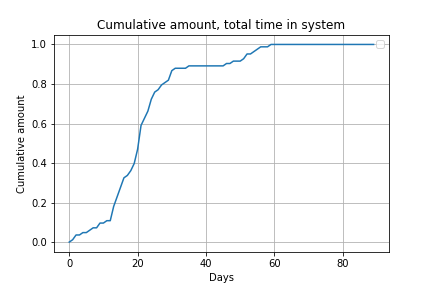
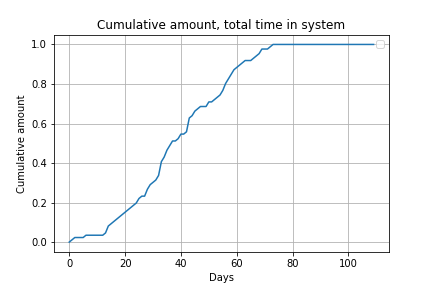
hei

diff --git a/src/simulation.py b/src/simulation.py
@@ -78,7 +78,7 @@ class Simulation:
         for r in resources:
             res_cap = mp.L_rt[r, 0]
             resource_usage_now = resource_usage[r]
-            if resource_usage_now + queue.activity_duration > res_cap:
+            if resource_usage_now + mp.activity_resource_dict[queue.activity][r] > res_cap: # queue.activity_duration
                 return False
         return True
 
@@ -925,7 +925,7 @@ def resource_usage_plot(s, active_days, sim_horizon):
     for d in range(0, active_days):
         for r in range(mp.L_rt.shape[0]):
             arr_available[d] = arr_available[d] + mp.L_rt[r, d % 7] 
-    
+    print("res_usage", res_usage)
     res1 = average_days(arr, len(arr))
     res2 = average_days(arr_available, len(arr_available))
     share_of_resources_used_1 = np.divide(res1, res2)
@@ -988,9 +988,9 @@ def time_limit_violation_plot(s, sim_days, warm_up_period):
     ax1 = plt.gca()
     ax2 = ax1.twinx()
     #g = ax1.plot(days, cum_tot, linestyle='-', label="tot")
-    a = ax1.plot(days, cum1, linestyle='-', label="Phase 1 limit")
-    b = ax1.plot(days, cum2, linestyle='-', label="Phase 2 limit")
-    c = ax1.plot(days, cum3, linestyle='-', label="Phase 3 limit")
+    a = ax1.plot(days, cum1, linestyle='-', label="Phase 1")
+    b = ax1.plot(days, cum2, linestyle='-', label="Phase 2")
+    c = ax1.plot(days, cum3, linestyle='-', label="Phase 3")
     d = ax2.plot(days, s.total_num_in_queue[1:], linestyle='--',label="Number of patients")
     ax1.set_xlabel('Days')
     ax1.set_ylabel("Share of patients violating the time limit")
@@ -1144,12 +1144,12 @@ def main():
     arr = [q0,q1,q2,q3,q4,q5,q6,q7,q8,q9,q10,q11,q12,q13,q14,q15,q16,q17,q18,q19,q20,q21,q22,q23,q24,q25,q26,q27,q28,q29,q30,q31,q32,q33,q34,q35,q36,q37,q38,q39]
 
     #Optimization param
-    weeks = 2
+    weeks = 1
     G = None
     E = None
-    M = 60
-    N = int(np.round(M*3/5))
-    shift = 6
+    M = 80
+    N = 80#int(np.round(M*3/5))
+    shift = 5
 
     #Simulation param
     simulation_horizon = 365
@@ -1157,7 +1157,7 @@ def main():
     no_show_percentage = 0.05
     implementation_weeks = 1
     K_rol_hor = 1000
-    warm_up_period = 0
+    warm_up_period = 0#50
 
 
     number_of_queues = mf.get_total_number_of_queues()
@@ -1167,13 +1167,17 @@ def main():
     scheduled_appointments = mf.from_dict_to_matrix_2(b_variable, (number_of_queues, weeks*7))
     scheduled_appointments = scheduled_appointments[:, :(implementation_weeks * 7)]
     s = Simulation(arr, scheduled_appointments, no_show_percentage)
-
+    sum_1 = np.zeros(16)
     for i in range(simulation_horizon):
         s.next_day()
+        sum_1 += s.calculate_resource_usage_day(i)
+        print(s.calculate_resource_usage_day(i))
         
         if i % (implementation_weeks * 7) == (implementation_weeks * 7 - 1) and i > 0:
             E = s.create_E_matrix()
             G = s.create_G_matrix()
+            print(sum_1)
+            sum_1 = np.zeros(16)
 
             create_capacity_graph(s, i + 1)
             _, b_variable, _ = mm.optimize_model(weeks = weeks, N_input = N, M_input = M, shift = shift, with_rolling_horizon = True, in_iteration = False, weights = None, G = G, E = E, K = K_rol_hor)
@@ -1194,12 +1198,7 @@ def main():
             create_stacked_plot(s)
             if i > 6:
                 create_total_queue_development(s)
-
-
-
-
-
-
+            
 
 
     print("\nSimulation time:", time.time() - start_time)
@@ -1223,6 +1222,3 @@ if __name__ == '__main__':
     print("\n")
     print("******* END  *******")
     print("\n")
-    #array = [0,1,2,3,4,5,6,7,8,9,10,11,12,13,14]
-    #a = average_days(array,15,7)
-    #print(a)

diff --git a/src/model_parameters.py b/src/model_parameters.py
@@ -166,22 +166,22 @@ t1,m,m,m])
 #L_rt = np.concatenate((np.full((16,5),1000), np.full((16,2),0)), axis=1)
 
 L_rt = np.array([
-        [160,160,160,160,160,0,0],#Physician0
-        [80,80,80,80,80,0,0],#Gynecologist1
-        [80,80,80,80,80,0,0],#Radiologist2
-        [160,160,160,160,160,0,0],#Radiographer3
-        [160,160,160,160,160,0,0],#Pathologist4
-        [160,160,160,160,160,0,0],#Surgeon5
-        [160,160,160,160,160,0,0],#Nurse6
-        [16,16,16,16,16,0,0],#CT scanner7
-        [16,16,16,16,16,0,0], #MRI scanner8
-        [100,100,100,100,100,0,0],#Operating room9
-        [100,100,100,100,100,0,0], #laboratory(biopsy)10
-        [100,100,100,100,100,0,0], #outpatient clinic11
+        [35,35,35,35,35,0,0],#Physician0 - Begrensende
+        [5,5,5,5,5,0,0],#Gynecologist1 - Begrensende
+        [4,4,4,4,4,0,0],#Radiologist2
+        [4,4,4,4,4,0,0],#Radiographer3
+        [4,4,4,4,4,0,0],#Pathologist4 - Begrensende
+        [0,0,0,0,0,0,0],#Surgeon5
+        [35,35,35,35,35,0,0],#Nurse6 - begrensende
+        [2,2,2,2,2,0,0],#CT scanner7
+        [2,2,2,2,2,0,0], #MRI scanner8
+        [8,8,8,8,8,0,0],#Operating room9
+        [2,2,2,2,2,0,0], #laboratory(biopsy)10
+        [3,3,3,3,3,0,0], #outpatient clinic11
         [0,0,0,0,0,0,0], #Bed, not used in model12
-        [100,100,100,100,100,0,0], # Day unit13
-        [100,100,100,100,100,0,0], # Radiotherapy laboratory14
-        [100,100,100,100,100,0,0]]) # Meeting room15
+        [10,10,10,10,10,0,0], # Day unit13
+        [3,3,3,3,3,0,0], # Radiotherapy laboratory14
+        [0,0,0,0,0,0,0]]) # Meeting room15
 
 resource_dict={
 ###Staff
@@ -210,15 +210,14 @@ activity_resource_dict = {
 2: {1:1, 4:1, 10:1},
 3: {2:0.5, 3:1, 7:0.5},
 4: {2:0.5, 3:1, 8:0.5},
-5: {0:5, 15:1},
+5: {0:5},
 6: {0:0.5, 6:0.5, 11:0.5},
 7: {0:1, 1:1, 6:4, 9:1},
-8: {0:4, 6:4, 13:4},
+8: {0:4, 6:4, 13:2},
 9: {0:3, 6:3, 9:3},
 10: {2:1, 3: 1, 14: 1},
 11: {},
-12: {0:1, 6:1},
+12: {},
 13: {2:1, 3:1, 14:1},
 14: {0:0.5, 11:0.5}
-
 }

diff --git a/src/main_model.py b/src/main_model.py
@@ -77,7 +77,7 @@ def optimize_model(weeks, N_input, M_input, shift, with_rolling_horizon, in_iter
     if with_rolling_horizon == True:
         A_jt = mf.old_solution("output/model_solution.sol", "b", shift)
         #E_jnm = mf.create_E_jnm(total_queues, N, M, shift, sol_file_name)
-        c_jtnm_old = mf.old_solution("output/model_solution.sol", "c", 0)
+        #c_jtnm_old = mf.old_solution("output/model_solution.sol", "c", 0)
         #G_jtnm = mf.calculate_rollover_service(total_queues, Time_periods, N, M, shift, c_jtnm_old, Q_ij, M_j)
         if E is None or G is None:
             E_jnm = np.zeros((total_queues, N, M))
